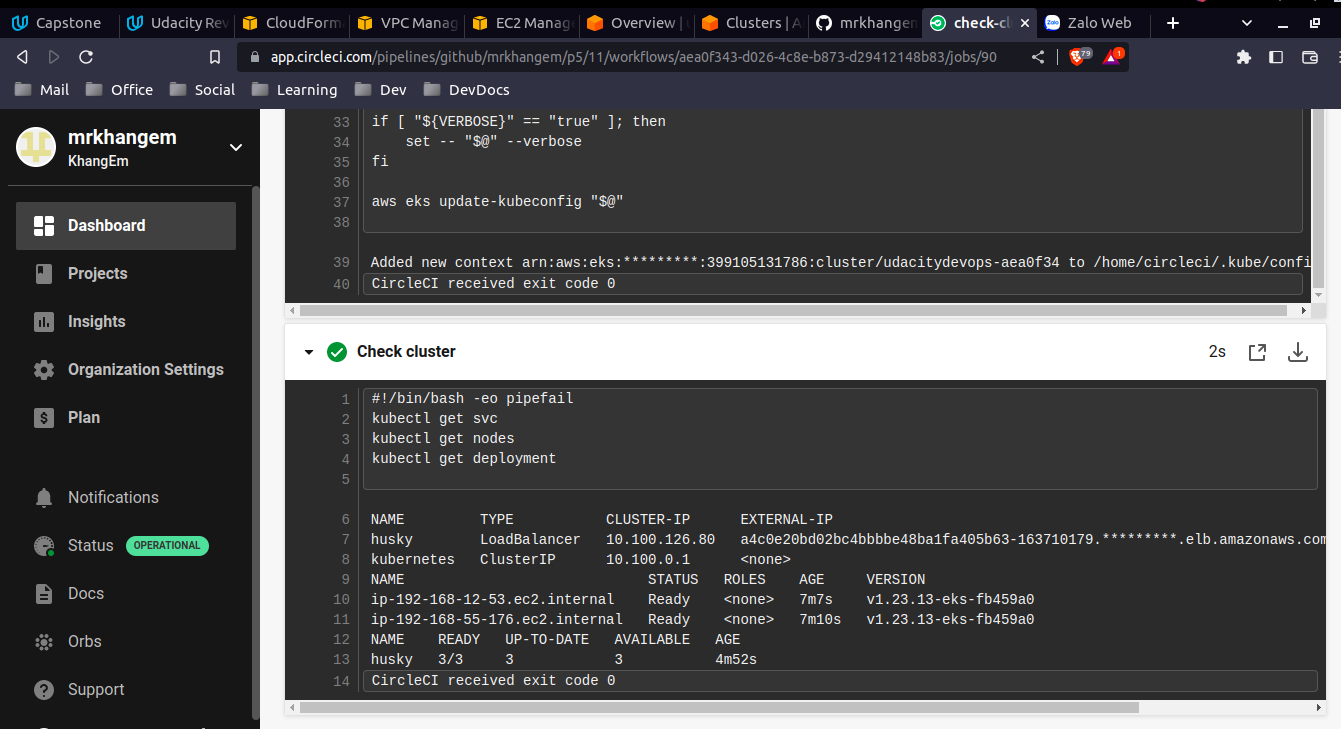
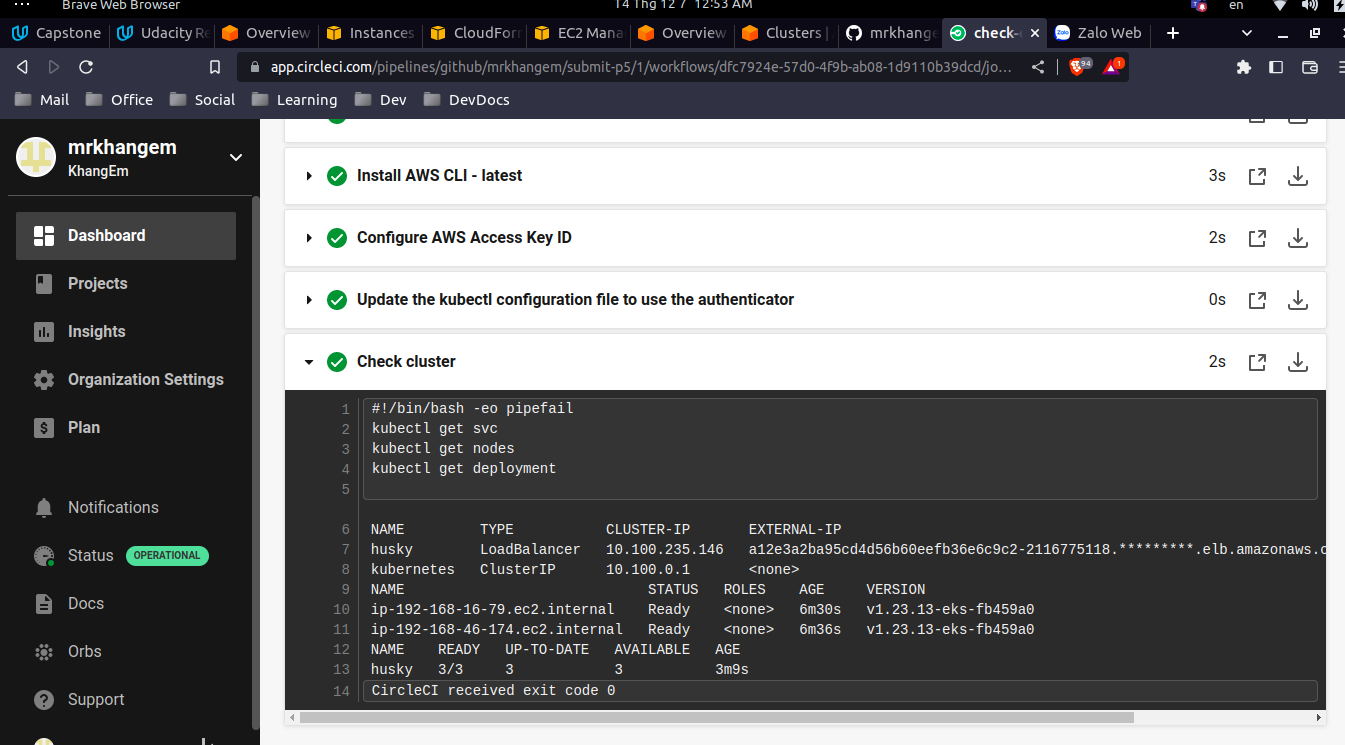
commit

diff --git a/README.md b/README.md
@@ -1,4 +1,4 @@
-<!--[![<ORG_NAME>](https://circleci.com/gh/mrkhangem/p5.svg?style=svg)](https://app.circleci.com/pipelines/github/mrkhangem/p5/85/workflows/0e37965a-c85e-4354-aba2-c73643bd5f30)-->
+[![<ORG_NAME>](https://circleci.com/gh/mrkhangem/submit-p5.svg?style=svg)](https://app.circleci.com/pipelines/github/mrkhangem/submit-p5/1/workflows/6f03e73f-9567-4311-a4c6-6305a287fd97)
 
 # Udacity Capstone
 # Nguyen Khang Em
